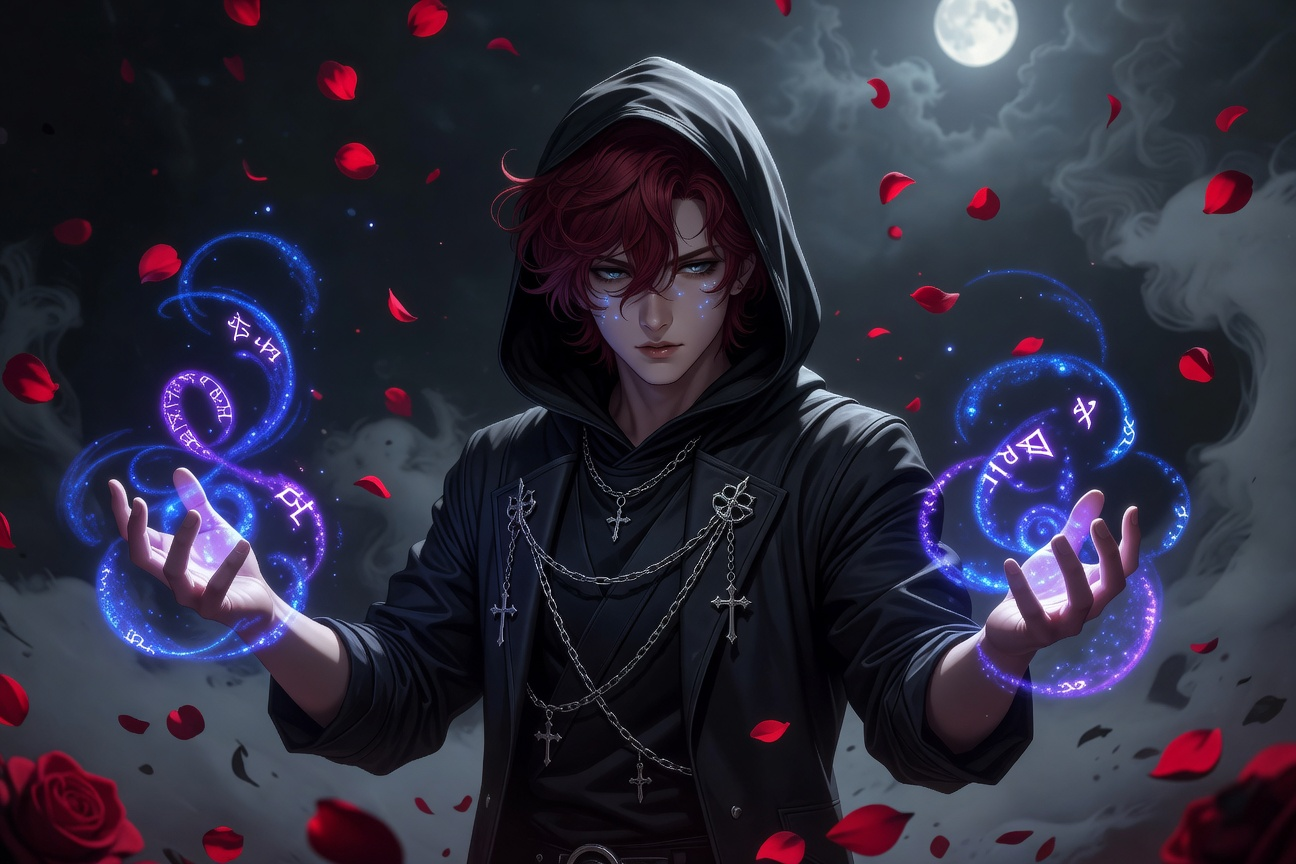
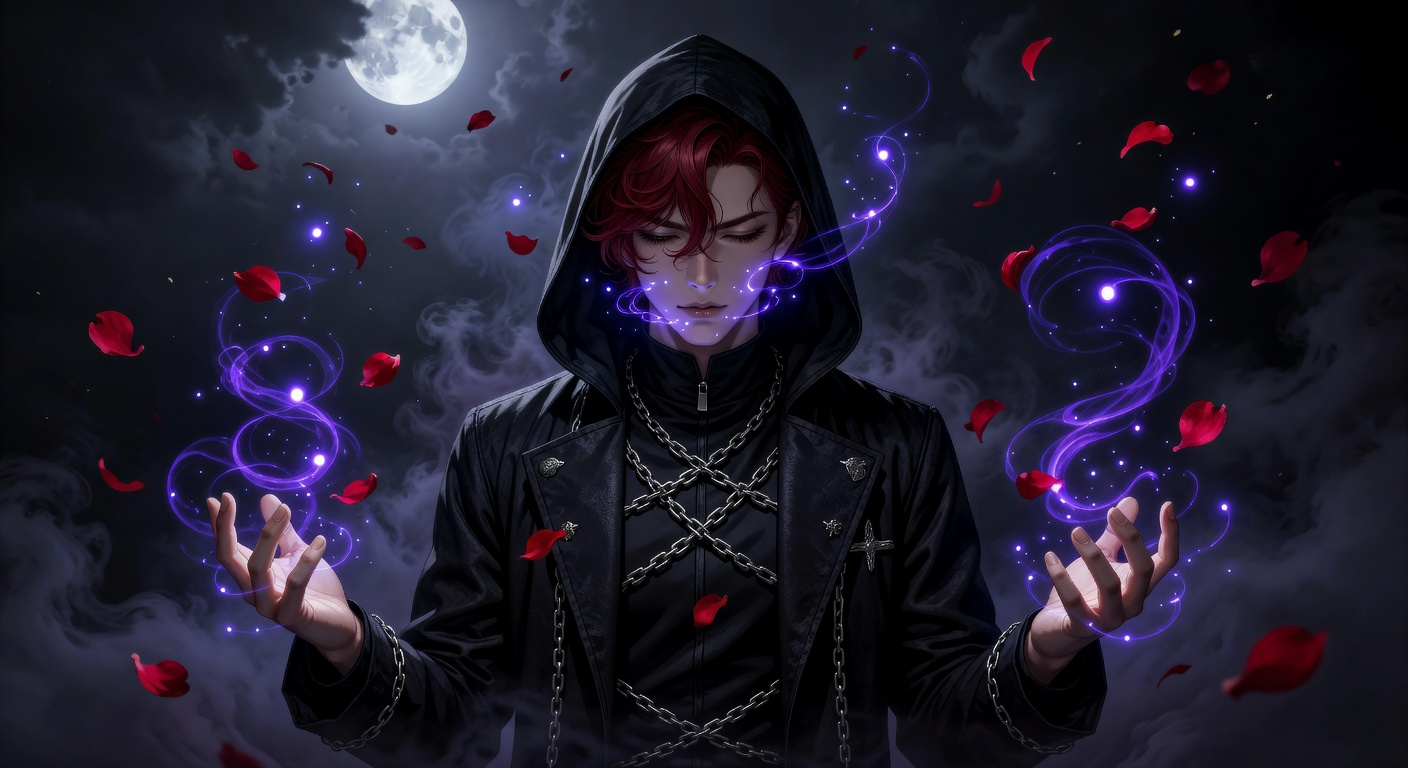
fix: 캐릭터 nukki 이미지 사이즈 1408×768로 통일
- 비표준 사이즈 nukki 5개 재생성: miko/smile, rei/serious, zero/serious, zero/mystical, ren/smile
- 레거시 미사용 파일 삭제: {arcana,hoshi,miko,seonhwa}/nukki/{happy,talking}.png
- arcana, hoshi의 expressions 경로를 root JPG → nukki PNG로 변경 (index.ts)
- CLAUDE.md 이미지 규격 스펙 업데이트: 864×1296 → 1408×768

diff --git a/src/data/characters/index.ts b/src/data/characters/index.ts
@@ -5,12 +5,12 @@ export const characters: CharacterConfig[] = [
     id: "arcana", name: "아르카나", nameJp: "アルカナ", gender: "female",
     greeting: "안녕하세요, 저는 아르카나예요. 오늘은 어떤 이야기를 카드에 물어볼까요? ✨",
     expressions: {
-      default: "/images/characters/arcana/default.jpg",
-      smile: "/images/characters/arcana/smile.jpg",
-      serious: "/images/characters/arcana/serious.jpg",
-      surprised: "/images/characters/arcana/surprised.jpg",
-      wink: "/images/characters/arcana/wink.jpg",
-      mystical: "/images/characters/arcana/mystical.jpg",
+      default: "/images/characters/arcana/nukki/default.png",
+      smile: "/images/characters/arcana/nukki/smile.png",
+      serious: "/images/characters/arcana/nukki/serious.png",
+      surprised: "/images/characters/arcana/nukki/surprised.png",
+      wink: "/images/characters/arcana/nukki/wink.png",
+      mystical: "/images/characters/arcana/nukki/mystical.png",
     },
     idleAnimation: "float",
     personality: "신비롭고 따뜻한 마녀. 고양이 귀가 달린 은발의 소녀로, 수정구슬을 들고 있다.",
@@ -56,9 +56,9 @@ export const characters: CharacterConfig[] = [
     id: "hoshi", name: "호시", nameJp: "星", gender: "female",
     greeting: "안녕~! 오늘의 별운을 확인해볼까? 🌟",
     expressions: {
-      default: "/images/characters/hoshi/default.jpg", smile: "/images/characters/hoshi/smile.jpg",
-      serious: "/images/characters/hoshi/serious.jpg", surprised: "/images/characters/hoshi/surprised.jpg",
-      wink: "/images/characters/hoshi/wink.jpg", mystical: "/images/characters/hoshi/mystical.jpg",
+      default: "/images/characters/hoshi/nukki/default.png", smile: "/images/characters/hoshi/nukki/smile.png",
+      serious: "/images/characters/hoshi/nukki/serious.png", surprised: "/images/characters/hoshi/nukki/surprised.png",
+      wink: "/images/characters/hoshi/nukki/wink.png", mystical: "/images/characters/hoshi/nukki/mystical.png",
     },
     idleAnimation: "float",
     personality: "발랄하고 에너지 넘치는 별의 정령. 파스텔톤, 별 모티프, 짧은 머리.",
